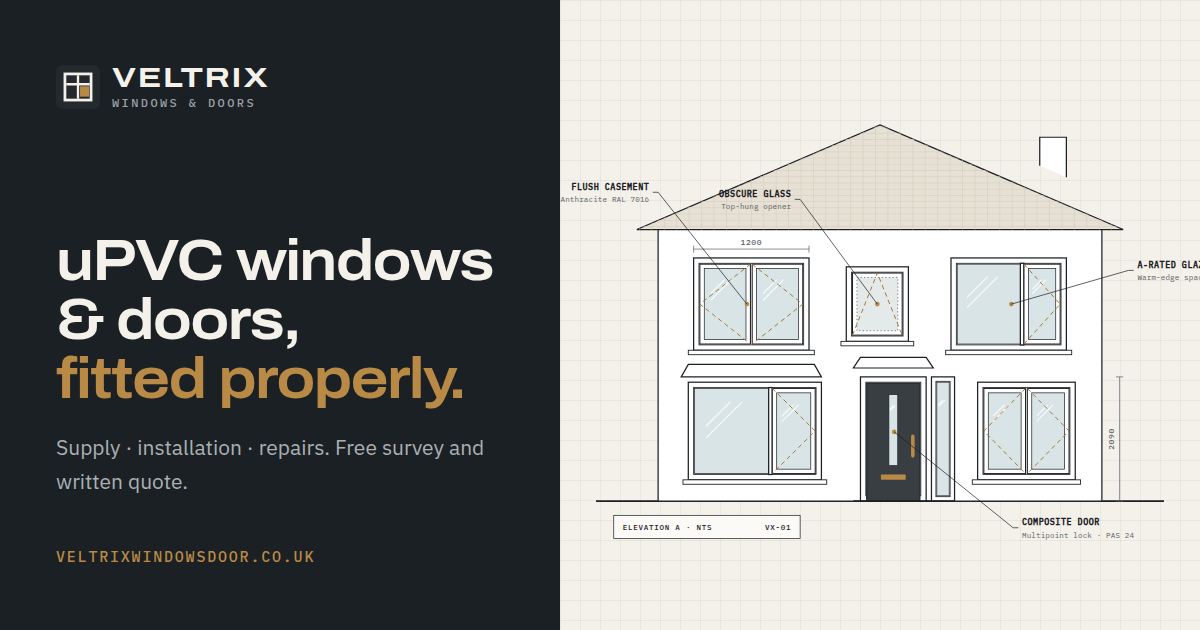
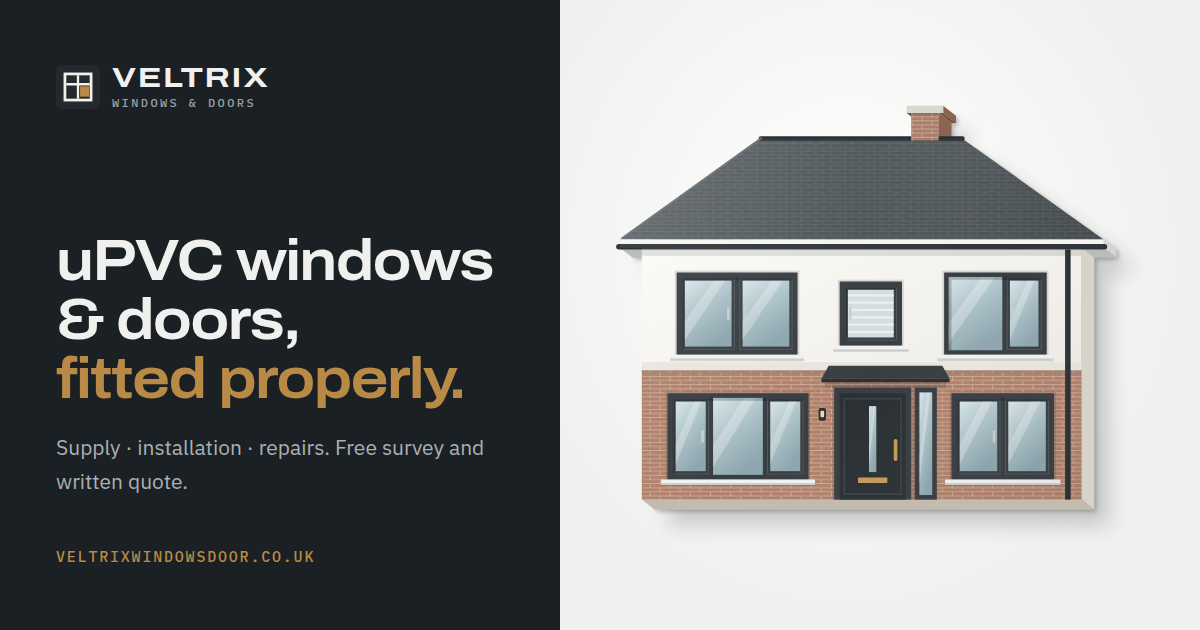
Hero house as a raised relief, standalone chat character, stronger WhatsApp button
- Replace the boxed technical sheet in the hero with an illustrated house that
  stands out from the page: extruded edges and a soft cast shadow, no frame
- Chat launcher is now just the window character with a small
  "Hello, I'm here to help" bubble; the separate greeting card is removed
- WhatsApp hero button in solid green, both hero buttons share one row
- OG image uses the new house

Claude-Session: https://claude.ai/code/session_01SfAgFPKD8zy2eZXFZFKCqg

Changed region(s): [[0.4625, 0.1508, 1.0, 0.8746], [0.8633, 0.2111, 0.8942, 0.2413]]

diff --git a/src/assets/css/assistant.css b/src/assets/css/assistant.css
@@ -1,34 +1,30 @@
 /* Website assistant (chat widget). Loaded on every page after main.css and uses its tokens. */
-.vxa, .vxa-launch, .vxa-nudge { --vxa-ease: cubic-bezier(.2, .8, .2, 1); --vxa-green: #2fbf63; }
+.vxa, .vxa-launch { --vxa-ease: cubic-bezier(.2, .8, .2, 1); --vxa-green: #2fbf63; }
 html.vxa-locked, html.vxa-locked body { overflow: hidden; }
 
-/* ---------- launcher ---------- */
-.vxa-launch { position: fixed; right: 24px; bottom: 24px; z-index: 70; display: inline-flex; align-items: center; gap: 12px; height: 56px; padding: 0 22px 0 7px; border: 0; border-radius: 28px; background: var(--ink); color: var(--paper); font: 600 0.9375rem/1 var(--f-body); letter-spacing: 0.005em; cursor: pointer; box-shadow: 0 1px 2px rgba(27,32,36,.25), 0 14px 34px -12px rgba(27,32,36,.6); transition: transform .2s var(--vxa-ease), background-color .2s, box-shadow .2s; }
-.vxa-launch:hover { background: var(--anth); transform: translateY(-2px); box-shadow: 0 1px 2px rgba(27,32,36,.25), 0 18px 38px -12px rgba(27,32,36,.65); }
-.vxa-launch:active { transform: translateY(0); }
-.vxa-launch:focus-visible { outline: 3px solid var(--brass); outline-offset: 3px; }
+/* ---------- launcher: the character on its own, with a small speech bubble ---------- */
+.vxa-launch { position: fixed; right: 18px; bottom: 14px; z-index: 70; display: flex; flex-direction: column; align-items: flex-end; gap: 2px; padding: 0; border: 0; background: none; color: var(--ink); font: inherit; cursor: pointer; -webkit-tap-highlight-color: transparent; opacity: 0; transform: translateY(10px); transition: opacity .35s ease, transform .45s var(--vxa-ease); }
+.vxa-launch.is-in { opacity: 1; transform: none; }
 .vxa-launch[hidden] { display: none; }
-.vxa-launch__av { position: relative; width: 42px; height: 42px; display: grid; place-items: center; border-radius: 50%; background: var(--paper); color: var(--ink); flex: none; }
-.vxa-launch--compact { width: 56px; padding: 0; justify-content: center; }
-.vxa-launch--compact .vxa-launch__txt { display: none; }
+.vxa-launch:focus-visible { outline: none; }
+.vxa-launch:focus-visible .vxa-launch__av { outline: 3px solid var(--brass); outline-offset: 2px; border-radius: 14px; }
+.vxa-launch__say { position: relative; margin-right: 10px; padding: 8px 13px; background: var(--white); border: 1px solid var(--line-strong); border-radius: 12px 12px 3px 12px; box-shadow: 0 1px 2px rgba(27,32,36,.06), 0 12px 26px -14px rgba(27,32,36,.45); font: 600 0.875rem/1.2 var(--f-body); color: var(--ink); white-space: nowrap; transform-origin: 85% 100%; transition: opacity .25s ease, transform .3s var(--vxa-ease), visibility 0s; }
+.vxa-launch__say::after { content: ''; position: absolute; right: 22px; bottom: -6px; width: 10px; height: 10px; background: var(--white); border-right: 1px solid var(--line-strong); border-bottom: 1px solid var(--line-strong); transform: rotate(45deg); }
+.vxa-launch:not(.is-in) .vxa-launch__say, .vxa-launch.is-quiet .vxa-launch__say, .vxa-launch--compact .vxa-launch__say { opacity: 0; visibility: hidden; transform: translateY(6px) scale(.94); transition: opacity .2s ease, transform .25s var(--vxa-ease), visibility 0s linear .25s; }
+.vxa-launch__av { display: block; width: 78px; height: 78px; transition: transform .25s var(--vxa-ease); }
+.vxa-launch__av .vxm { display: block; width: 100%; height: 100%; overflow: visible; filter: drop-shadow(0 6px 8px rgba(27,32,36,.18)); }
+.vxa-launch--compact .vxa-launch__av { width: 64px; height: 64px; }
 .vxa-dot { position: absolute; right: -1px; bottom: -1px; width: 12px; height: 12px; border-radius: 50%; background: #a3a9ad; border: 2px solid var(--ink); }
 .vxa-dot.is-open { background: var(--vxa-green); }
-
-/* ---------- one-time greeting bubble ---------- */
-.vxa-nudge { position: fixed; right: 24px; bottom: 94px; z-index: 69; display: flex; align-items: flex-start; width: 300px; max-width: calc(100vw - 48px); background: var(--white); border: 1px solid var(--line-strong); border-radius: 14px 14px 4px 14px; box-shadow: 0 1px 2px rgba(27,32,36,.06), 0 20px 44px -18px rgba(27,32,36,.5); opacity: 0; transform: translateY(8px); transition: opacity .25s ease, transform .3s var(--vxa-ease); }
-.vxa-nudge.is-in { opacity: 1; transform: none; }
-.vxa-nudge[hidden] { display: none; }
-.vxa-nudge::after { content: ''; position: absolute; right: 26px; bottom: -7px; width: 12px; height: 12px; background: var(--white); border-right: 1px solid var(--line-strong); border-bottom: 1px solid var(--line-strong); transform: rotate(45deg); }
-.vxa-nudge__body { flex: 1; min-width: 0; display: flex; gap: 12px; align-items: flex-start; padding: 14px 4px 14px 14px; border: 0; border-radius: 14px 0 0 14px; background: none; color: var(--ink-2); font: inherit; text-align: left; cursor: pointer; }
-.vxa-nudge__body:focus-visible, .vxa-nudge__x:focus-visible { outline: 2px solid var(--brass); outline-offset: 2px; }
-.vxa-nudge__av { width: 34px; height: 34px; display: grid; place-items: center; border-radius: 50%; background: var(--ink); color: var(--paper); flex: none; }
-.vxa-nudge__av svg { width: 18px; height: 18px; }
-.vxa-nudge__text strong { display: block; font: 650 0.9375rem/1.3 var(--f-display); font-stretch: 104%; color: var(--ink); }
-.vxa-nudge__text span { display: block; margin-top: 3px; font-size: 0.875rem; line-height: 1.4; color: var(--slate); }
-.vxa-nudge__x { flex: none; width: 36px; height: 36px; margin: 6px 6px 0 0; display: grid; place-items: center; border: 0; border-radius: 50%; background: transparent; color: var(--slate); cursor: pointer; }
-.vxa-nudge__x svg { width: 16px; height: 16px; }
-
-@media (max-width: 760px) { .vxa-launch { display: none !important; } .vxa-nudge { right: 12px; left: auto; bottom: calc(76px + env(safe-area-inset-bottom, 0px)); width: min(300px, calc(100vw - 24px)); } .vxa-nudge::after { right: 34px; } }
+@media (hover: hover) {
+  .vxa-launch:hover .vxa-launch__av { transform: translateY(-3px); }
+  .vxa-launch.is-quiet:hover .vxa-launch__say { opacity: 1; visibility: visible; transform: none; transition: opacity .2s ease, transform .25s var(--vxa-ease), visibility 0s; }
+}
+@media (max-width: 760px) {
+  .vxa-launch { right: 10px; bottom: calc(70px + env(safe-area-inset-bottom, 0px)); }
+  .vxa-launch__av, .vxa-launch--compact .vxa-launch__av { width: 60px; height: 60px; }
+  .vxa-launch__say { font-size: 0.8125rem; padding: 7px 11px; margin-right: 6px; }
+}
 
 /* ---------- panel ---------- */
 .vxa { position: fixed; right: 24px; bottom: 24px; z-index: 80; width: min(408px, calc(100vw - 48px)); height: min(680px, calc(100vh - 48px)); height: min(680px, calc(100dvh - 48px)); display: flex; flex-direction: column; background: var(--paper); border: 1px solid var(--line-strong); border-radius: 14px; box-shadow: 0 2px 6px rgba(27,32,36,.08), 0 30px 70px -20px rgba(27,32,36,.5); overflow: hidden; opacity: 0; visibility: hidden; transform: translateY(14px) scale(.98); transform-origin: bottom right; transition: opacity .2s ease, transform .26s var(--vxa-ease), visibility 0s linear .26s; }
@@ -136,8 +132,6 @@ html.vxa-locked, html.vxa-locked body { overflow: hidden; }
 
 /* hover styles only where a pointer can hover (taps on phones shouldn't leave chips dark) */
 @media (hover: hover) {
-  .vxa-nudge__body:hover strong { text-decoration: underline; text-decoration-color: var(--brass); text-underline-offset: 3px; }
-  .vxa-nudge__x:hover { background: var(--paper); color: var(--ink); }
   .vxa__btn:hover { background: rgba(255,255,255,.1); color: var(--paper); }
   .vxa__msg a:not([class]):hover { text-decoration-color: var(--ink); }
   .vxa__card:hover { border-color: var(--ink); background: var(--white); }
@@ -170,17 +164,13 @@ html.vxa-locked, html.vxa-locked body { overflow: hidden; }
 @keyframes vxaDot { 0%, 80%, 100% { opacity: .3; transform: translateY(0); } 40% { opacity: 1; transform: translateY(-3px); } }
 
 @media (prefers-reduced-motion: reduce) {
-  .vxa, .vxa.is-open, .vxa-launch, .vxa-nudge, .vxa__msg, .vxa__chip, .vxa__card, .vxa__card > .vxa__ico, .vxa__send { animation: none !important; transition: none !important; }
-  .vxa, .vxa-nudge, .vxa-launch:hover { transform: none !important; }
+  .vxa, .vxa.is-open, .vxa-launch, .vxa-launch__say, .vxa-launch__av, .vxa__msg, .vxa__chip, .vxa__card, .vxa__card > .vxa__ico, .vxa__send { animation: none !important; transition: none !important; }
+  .vxa, .vxa-launch, .vxa-launch__say, .vxa-launch__av { transform: none !important; }
   .vxa__typing span { animation: none; opacity: .6; }
 }
-@media print { .vxa, .vxa-launch, .vxa-nudge { display: none !important; } }
+@media print { .vxa, .vxa-launch { display: none !important; } }
 
-/* window character: launcher avatar, greeting bubble, one-time wave */
-.vxa-launch__av { overflow: visible; }
-.vxa-launch__av .vxm { width: 40px; height: 40px; margin-top: -4px; }
-.vxa-nudge__av { width: 56px; height: 56px; background: transparent; margin: -18px 0 0 -6px; }
-.vxa-nudge__av svg.vxm { width: 56px; height: 56px; }
+/* window character: one-time wave, and a wave on hover */
 .vxm-arm, .vxm-body { transform-box: view-box; }
 .vxm-arm { transform-origin: 15px 36px; }
 .vxm-body { transform-origin: 32px 58px; }

diff --git a/src/assets/css/main.css b/src/assets/css/main.css
@@ -391,8 +391,6 @@ ul, ol { margin: 0; padding: 0; }
 .d-call path { fill: none; stroke: var(--ink); stroke-width: 0.8; }
 .d-call text { font: 600 11px var(--f-mono); fill: var(--ink); letter-spacing: 0.06em; }
 .d-call .d-call-sub { font-weight: 400; fill: var(--slate); font-size: 10px; letter-spacing: 0.02em; }
-.d-titleblock rect { fill: var(--card); stroke: var(--ink); stroke-width: 0.8; }
-.d-titleblock text { font: 500 8.5px var(--f-mono); fill: var(--ink); letter-spacing: 0.1em; }
 .d-profile { fill: var(--white); stroke: var(--ink); stroke-width: 1.3; }
 .d-chamber { fill: #eceeea; stroke: var(--ink); stroke-width: 0.7; }
 .d-steel { fill: #9aa3a8; stroke: var(--ink); stroke-width: 0.7; }
@@ -920,18 +918,22 @@ a.ccard:hover { background: var(--white); }
   .hero .display .ln > span { animation: vxUp .9s cubic-bezier(.2,.7,.2,1) both; animation-delay: calc(var(--d, 0) * 110ms + 80ms); }
   .hero .hero__lead, .hero .hero__actions, .hero .hero__ticks { animation: vxFadeUp .8s ease both; }
   .hero .hero__lead { animation-delay: .45s; } .hero .hero__actions { animation-delay: .58s; } .hero .hero__ticks { animation-delay: .7s; }
-  .hero .sheet { animation: vxFadeUp .9s .15s ease both; }
-  .hero .d-call, .hero .d-dim, .hero .d-titleblock, .hero .d-open { animation: vxFade .6s ease both; animation-delay: 1.7s; }
-  .hero .d-call:nth-of-type(2n) { animation-delay: 1.9s; }
+  .hero .house { animation: vxFade .8s .1s ease both; }
+  .hero .hh-face { animation: hhRise 1.2s .35s cubic-bezier(.2,.7,.2,1) both; }
+  .hero .hh-ext, .hero .hh-shade { animation: vxFade 1s .55s ease both; }
 }
 @keyframes vxFadeUp { from { opacity: 0; transform: translateY(16px); } to { opacity: 1; transform: none; } }
-.hero__art .sheet { box-shadow: 0 30px 60px -40px rgba(27,32,36,.45); }
-.hero__badge { position: absolute; left: -22px; bottom: -26px; text-decoration: none; display: flex; align-items: center; gap: 12px; padding: 12px 16px 12px 12px; background: var(--ink); color: var(--paper); border-radius: 6px; box-shadow: 0 16px 34px -18px rgba(27,32,36,.7); font-size: 0.875rem; line-height: 1.3; }
+@keyframes hhRise { from { transform: translate(14px, 11px); } to { transform: none; } }
+/* the house is a raised panel on the hero wall: no frame, just light and shadow */
+.hero__art::before { content: ''; position: absolute; inset: -12% -8% -6% -14%; z-index: -1; pointer-events: none; background: radial-gradient(ellipse at 45% 42%, rgba(255,255,255,.55), rgba(255,255,255,0) 66%); }
+.hero__art { isolation: isolate; }
+.house { display: block; width: 100%; height: auto; overflow: visible; }
+.hero__badge { position: absolute; left: -22px; bottom: -40px; text-decoration: none; display: flex; align-items: center; gap: 12px; padding: 12px 16px 12px 12px; background: var(--ink); color: var(--paper); border-radius: 6px; box-shadow: 0 16px 34px -18px rgba(27,32,36,.7); font-size: 0.875rem; line-height: 1.3; }
 .hero__badge strong { display: block; font-weight: 600; }
 .hero__badge span { color: #aab0b3; font-size: 0.8125rem; }
 .hero__badge .ico { width: 38px; height: 38px; padding: 9px; border-radius: 50%; background: var(--brass); color: var(--ink); }
 @media (prefers-reduced-motion: no-preference) { .hero__badge { animation: vxFadeUp .7s 1.2s ease both; } }
-@media (max-width: 960px) { .hero__badge { left: 12px; bottom: -24px; } }
+@media (max-width: 960px) { .hero__badge { position: relative; left: auto; bottom: auto; display: inline-flex; margin-top: 22px; } }
 .hero__badge:hover strong { text-decoration: underline; text-underline-offset: 3px; }
 
 /* reveal on scroll (only for content below the first screen) */
@@ -1091,7 +1093,7 @@ a.ccard:hover { background: var(--white); }
 .hbtn__ico { width: 46px; height: 46px; flex: none; display: grid; place-items: center; border-radius: 7px; transition: transform .22s; }
 .hbtn__txt { display: flex; flex-direction: column; gap: 4px; line-height: 1.15; min-width: 0; }
 .hbtn__txt strong { font: 650 1.0625rem/1.15 var(--f-display); font-stretch: 104%; letter-spacing: -0.005em; }
-.hbtn__txt small { font: 500 0.6875rem/1.2 var(--f-mono); letter-spacing: 0.06em; text-transform: uppercase; }
+.hbtn__txt small { font: 500 0.8125rem/1.2 var(--f-body); white-space: nowrap; }
 .hbtn__go { margin-left: auto; padding-left: 4px; display: grid; place-items: center; transition: transform .25s cubic-bezier(.2,.8,.2,1); }
 .hbtn:focus-visible { outline: 3px solid var(--brass); outline-offset: 3px; }
 .hbtn:active { transform: translateY(0) scale(.99); }
@@ -1101,14 +1103,16 @@ a.ccard:hover { background: var(--white); }
 .hbtn--quote:hover { background: var(--anth); transform: translateY(-2px); box-shadow: 0 1px 0 rgba(255,255,255,.06) inset, 0 20px 34px -18px rgba(27,32,36,.9); }
 .hbtn--quote:hover .hbtn__go { transform: translateX(4px); }
 .hbtn--quote:hover .hbtn__ico { transform: rotate(-6deg); }
-.hbtn--wa { background: var(--white); color: var(--ink); border: 1px solid var(--line-strong); box-shadow: 0 10px 24px -20px rgba(27,32,36,.5); }
-.hbtn--wa .hbtn__ico { background: #e3f6ea; color: #128c4a; }
-.hbtn--wa small { color: var(--slate); letter-spacing: 0.04em; }
-.hbtn--wa .hbtn__go { color: var(--slate); }
-.hbtn--wa:hover { border-color: #128c4a; transform: translateY(-2px); box-shadow: 0 18px 30px -20px rgba(18,140,74,.55); }
-.hbtn--wa:hover .hbtn__ico { background: var(--wa); color: var(--wa-ink); }
-.hbtn--wa:hover .hbtn__go { transform: translate(3px, -3px); color: #128c4a; }
-@media (max-width: 480px) { .hero__actions .hbtn { flex: 1 1 100%; } }
+.hbtn--wa { background: #0f5132; color: #fff; box-shadow: 0 1px 0 rgba(255,255,255,.08) inset, 0 16px 30px -18px rgba(9,60,34,.9); }
+.hbtn--wa .hbtn__ico { background: #25d366; color: #fff; }
+.hbtn--wa .hbtn__ico .ico { filter: drop-shadow(0 1px 0 rgba(5,48,26,.35)); }
+.hbtn--wa small { color: #a9dcbd; font-variant-numeric: tabular-nums; }
+.hbtn--wa .hbtn__go { color: #a9dcbd; }
+.hbtn--wa:hover { background: #0b6b3e; transform: translateY(-2px); box-shadow: 0 1px 0 rgba(255,255,255,.08) inset, 0 20px 34px -18px rgba(9,60,34,.95); }
+.hbtn--wa:hover .hbtn__ico { transform: scale(1.06); }
+.hbtn--wa:hover .hbtn__go { transform: translate(3px, -3px); color: #fff; }
+.hero__actions .hbtn { flex: 1 1 0; min-width: 248px; max-width: 300px; }
+@media (max-width: 600px) { .hero__actions .hbtn { flex: 1 1 100%; max-width: none; min-width: 0; } }
 @media (prefers-reduced-motion: reduce) { .hbtn, .hbtn__go, .hbtn__ico { transition: none; } }
 
 /* ---------- quote: "Send for quote" bar and collapsible step 2 ---------- */

diff --git a/src/assets/js/assistant.js b/src/assets/js/assistant.js
@@ -1257,35 +1257,19 @@
     return a;
   };
 
-  // launcher
   const compact = /^\/(quote|book)\//.test(location.pathname);
+  // launcher: the window character on its own, with a small speech bubble above it
   const launch = el('button', `vxa-launch${compact ? ' vxa-launch--compact' : ''}`);
   launch.type = 'button';
   launch.setAttribute('aria-haspopup', 'dialog');
   launch.setAttribute('aria-controls', 'vxa-panel');
   launch.setAttribute('aria-expanded', 'false');
-  if (compact) launch.setAttribute('aria-label', 'Questions? Ask us');
+  launch.setAttribute('aria-label', 'Open chat. Hello, I’m here to help');
+  const launchSay = el('span', 'vxa-launch__say', 'Hello, I’m here to help');
+  launchSay.setAttribute('aria-hidden', 'true');
   const launchAv = el('span', 'vxa-launch__av');
   launchAv.innerHTML = SVG.mascot;
-  const launchDot = el('span', 'vxa-dot');
-  launchAv.append(launchDot);
-  launch.append(launchAv, el('span', 'vxa-launch__txt', 'Questions? Ask us'));
-
-  // greeting nudge
-  const nudge = el('div', 'vxa-nudge');
-  nudge.hidden = true;
-  const nudgeBody = el('button', 'vxa-nudge__body');
-  nudgeBody.type = 'button';
-  const nudgeText = el('span', 'vxa-nudge__text');
-  nudgeText.append(el('strong', null, 'Hello! I’m here to help.'), el('span', null, 'Ask me about prices, repairs or booking a free survey.'));
-  const nudgeAv = el('span', 'vxa-nudge__av');
-  nudgeAv.innerHTML = SVG.mascot;
-  nudgeBody.append(nudgeAv, nudgeText);
-  const nudgeX = el('button', 'vxa-nudge__x');
-  nudgeX.type = 'button';
-  nudgeX.setAttribute('aria-label', 'Dismiss');
-  nudgeX.innerHTML = SVG.close;
-  nudge.append(nudgeBody, nudgeX);
+  launch.append(launchSay, launchAv);
 
   // panel
   const panel = el('section', 'vxa');
@@ -1360,7 +1344,7 @@
   foot.append(human, footNote);
 
   panel.append(head, scroller, form, foot);
-  document.body.append(launch, nudge, panel);
+  document.body.append(launch, panel);
 
   /* ---------- rendering (textContent only) ---------- */
   function inl(parent, x) {
@@ -1766,9 +1750,8 @@
   function refreshStatus() {
     const st = status();
     const open = !!st?.open;
-    [launchDot, headDot].forEach((d) => d.classList.toggle('is-open', open));
+    headDot.classList.toggle('is-open', open);
     statusLine.textContent = st ? st.text : 'Automated answers, any time';
-    launch.title = st ? `Team: ${st.text}` : '';
   }
   const vv = window.visualViewport;
   function fitViewport() {
@@ -1785,7 +1768,6 @@
   let statusTimer;
   function open({ focus = true } = {}) {
     if (isOpen) { if (focus) input.focus({ preventScroll: true }); return; }
-    hideNudge(true);
     const ae = document.activeElement;
     opener = ae && ae !== document.body ? ae : null;
     isOpen = true;
@@ -1866,33 +1848,21 @@
   vv?.addEventListener('resize', fitViewport);
   vv?.addEventListener('scroll', fitViewport);
 
-  // one-time greeting bubble: desktop only, once per session, not on the quote or booking pages
-  let nudgeTimer;
-  function hideNudge(now) {
-    clearTimeout(nudgeTimer);
-    if (nudge.hidden) return;
-    if (now || reduced()) { nudge.hidden = true; nudge.classList.remove('is-in'); return; }
-    nudge.classList.remove('is-in');
-    setTimeout(() => (nudge.hidden = true), 220);
+  // greet once per visit: the character waves. On phones the bubble tucks away after a few seconds.
+  function hello() {
+    const first = !state.nudged && !state.msgs.length;
+    if (first) { state.nudged = 1; save(); }
+    if (mqMobile.matches && !first) launch.classList.add('is-quiet');
+    setTimeout(() => {
+      launch.classList.add('is-in');
+      if (!first) return;
+      if (!reduced()) {
+        launch.classList.add('is-waving');
+        setTimeout(() => launch.classList.remove('is-waving'), 2200);
+      }
+      if (mqMobile.matches) setTimeout(() => launch.classList.add('is-quiet'), 7000);
+    }, first ? 1200 : 0);
   }
-  function maybeNudge() {
-    if (compact || state.nudged || state.msgs.length) return;
-    nudgeTimer = setTimeout(() => {
-      const ae = document.activeElement;
-      if (isOpen || document.hidden || state.nudged || state.msgs.length || document.body.classList.contains('nav-open')) return;
-      if (ae && /^(INPUT|TEXTAREA|SELECT)$/.test(ae.tagName)) return;
-      state.nudged = 1;
-      save();
-      refreshStatus();
-      nudge.hidden = false;
-      requestAnimationFrame(() => nudge.classList.add('is-in'));
-      // wave once, on the bubble and on the launcher
-      if (!reduced()) [nudge, launch].forEach((n) => { n.classList.add('is-waving'); setTimeout(() => n.classList.remove('is-waving'), 2200); });
-      nudgeTimer = setTimeout(() => hideNudge(), mqMobile.matches ? 9000 : 15000);
-    }, 2500);
-  }
-  nudgeBody.addEventListener('click', () => open());
-  nudgeX.addEventListener('click', () => { hideNudge(); launch.focus({ preventScroll: true }); });
 
   refreshStatus();
   if (state.reopen) {
@@ -1900,7 +1870,7 @@
     save();
     if (!mqMobile.matches && state.msgs.length) open({ focus: false });
   }
-  maybeNudge();
+  hello();
 
   // small API for the site and for testing
   VX.assistant = {

diff --git a/src/assets/js/main.js b/src/assets/js/main.js
@@ -364,7 +364,6 @@
       el.animate([{ opacity: 0 }, { opacity: 1 }], { duration: 700, delay: delay + dur * 0.75, fill: 'backwards' })
     );
   }
-  drawIn(document.querySelector('.hero .diagram--facade'), 250, 1600);
   const sect = document.querySelector('.diagram--section');
   if (sect && io) {
     if (sect.getBoundingClientRect().top > window.innerHeight) {
